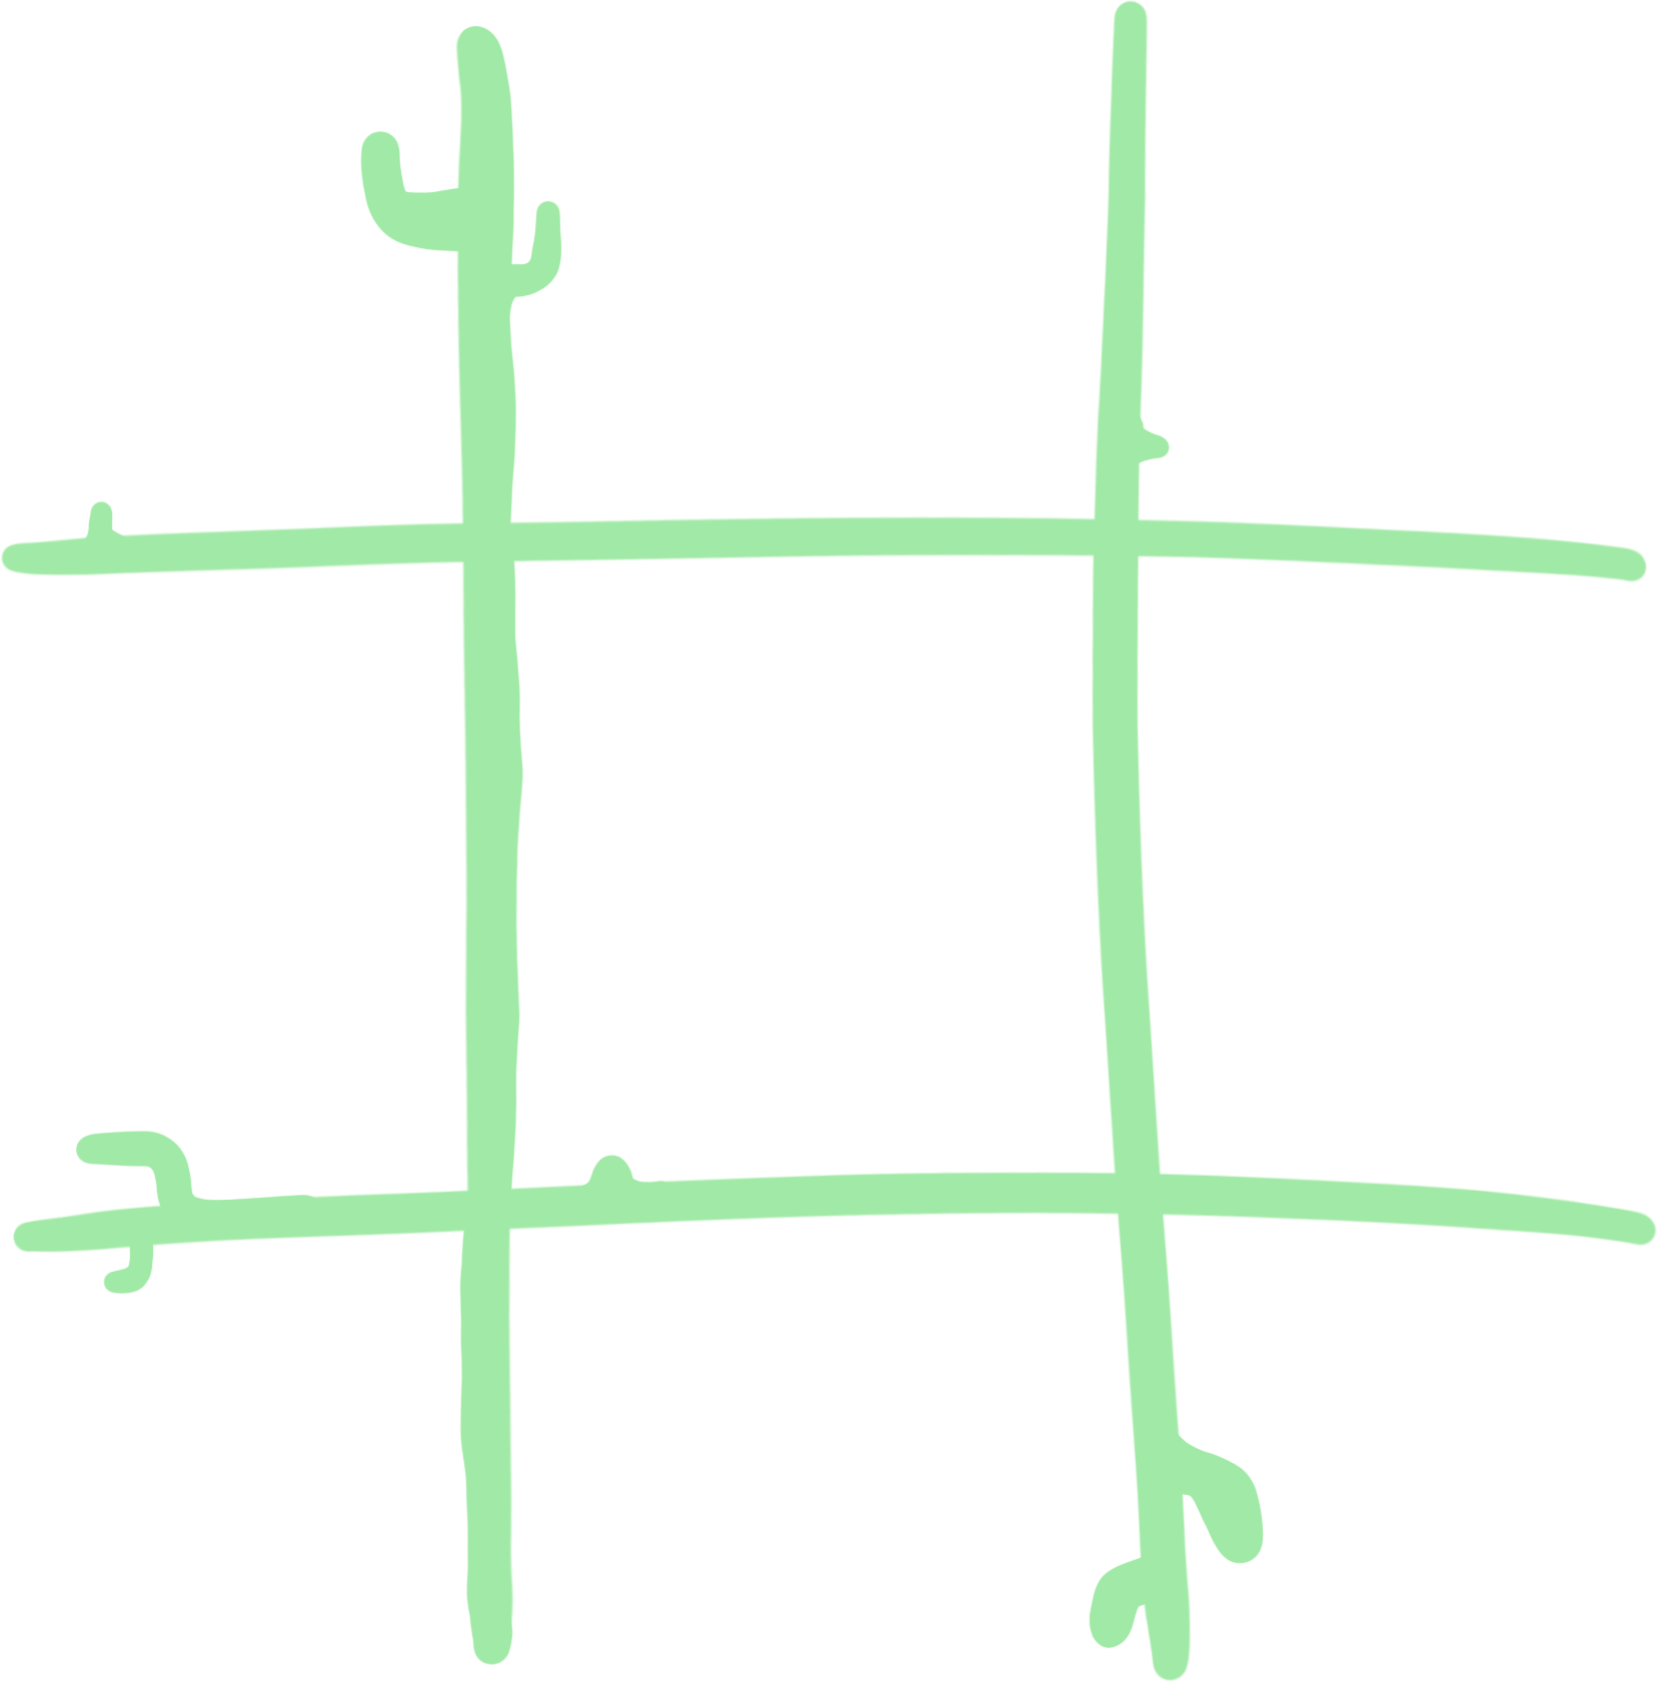
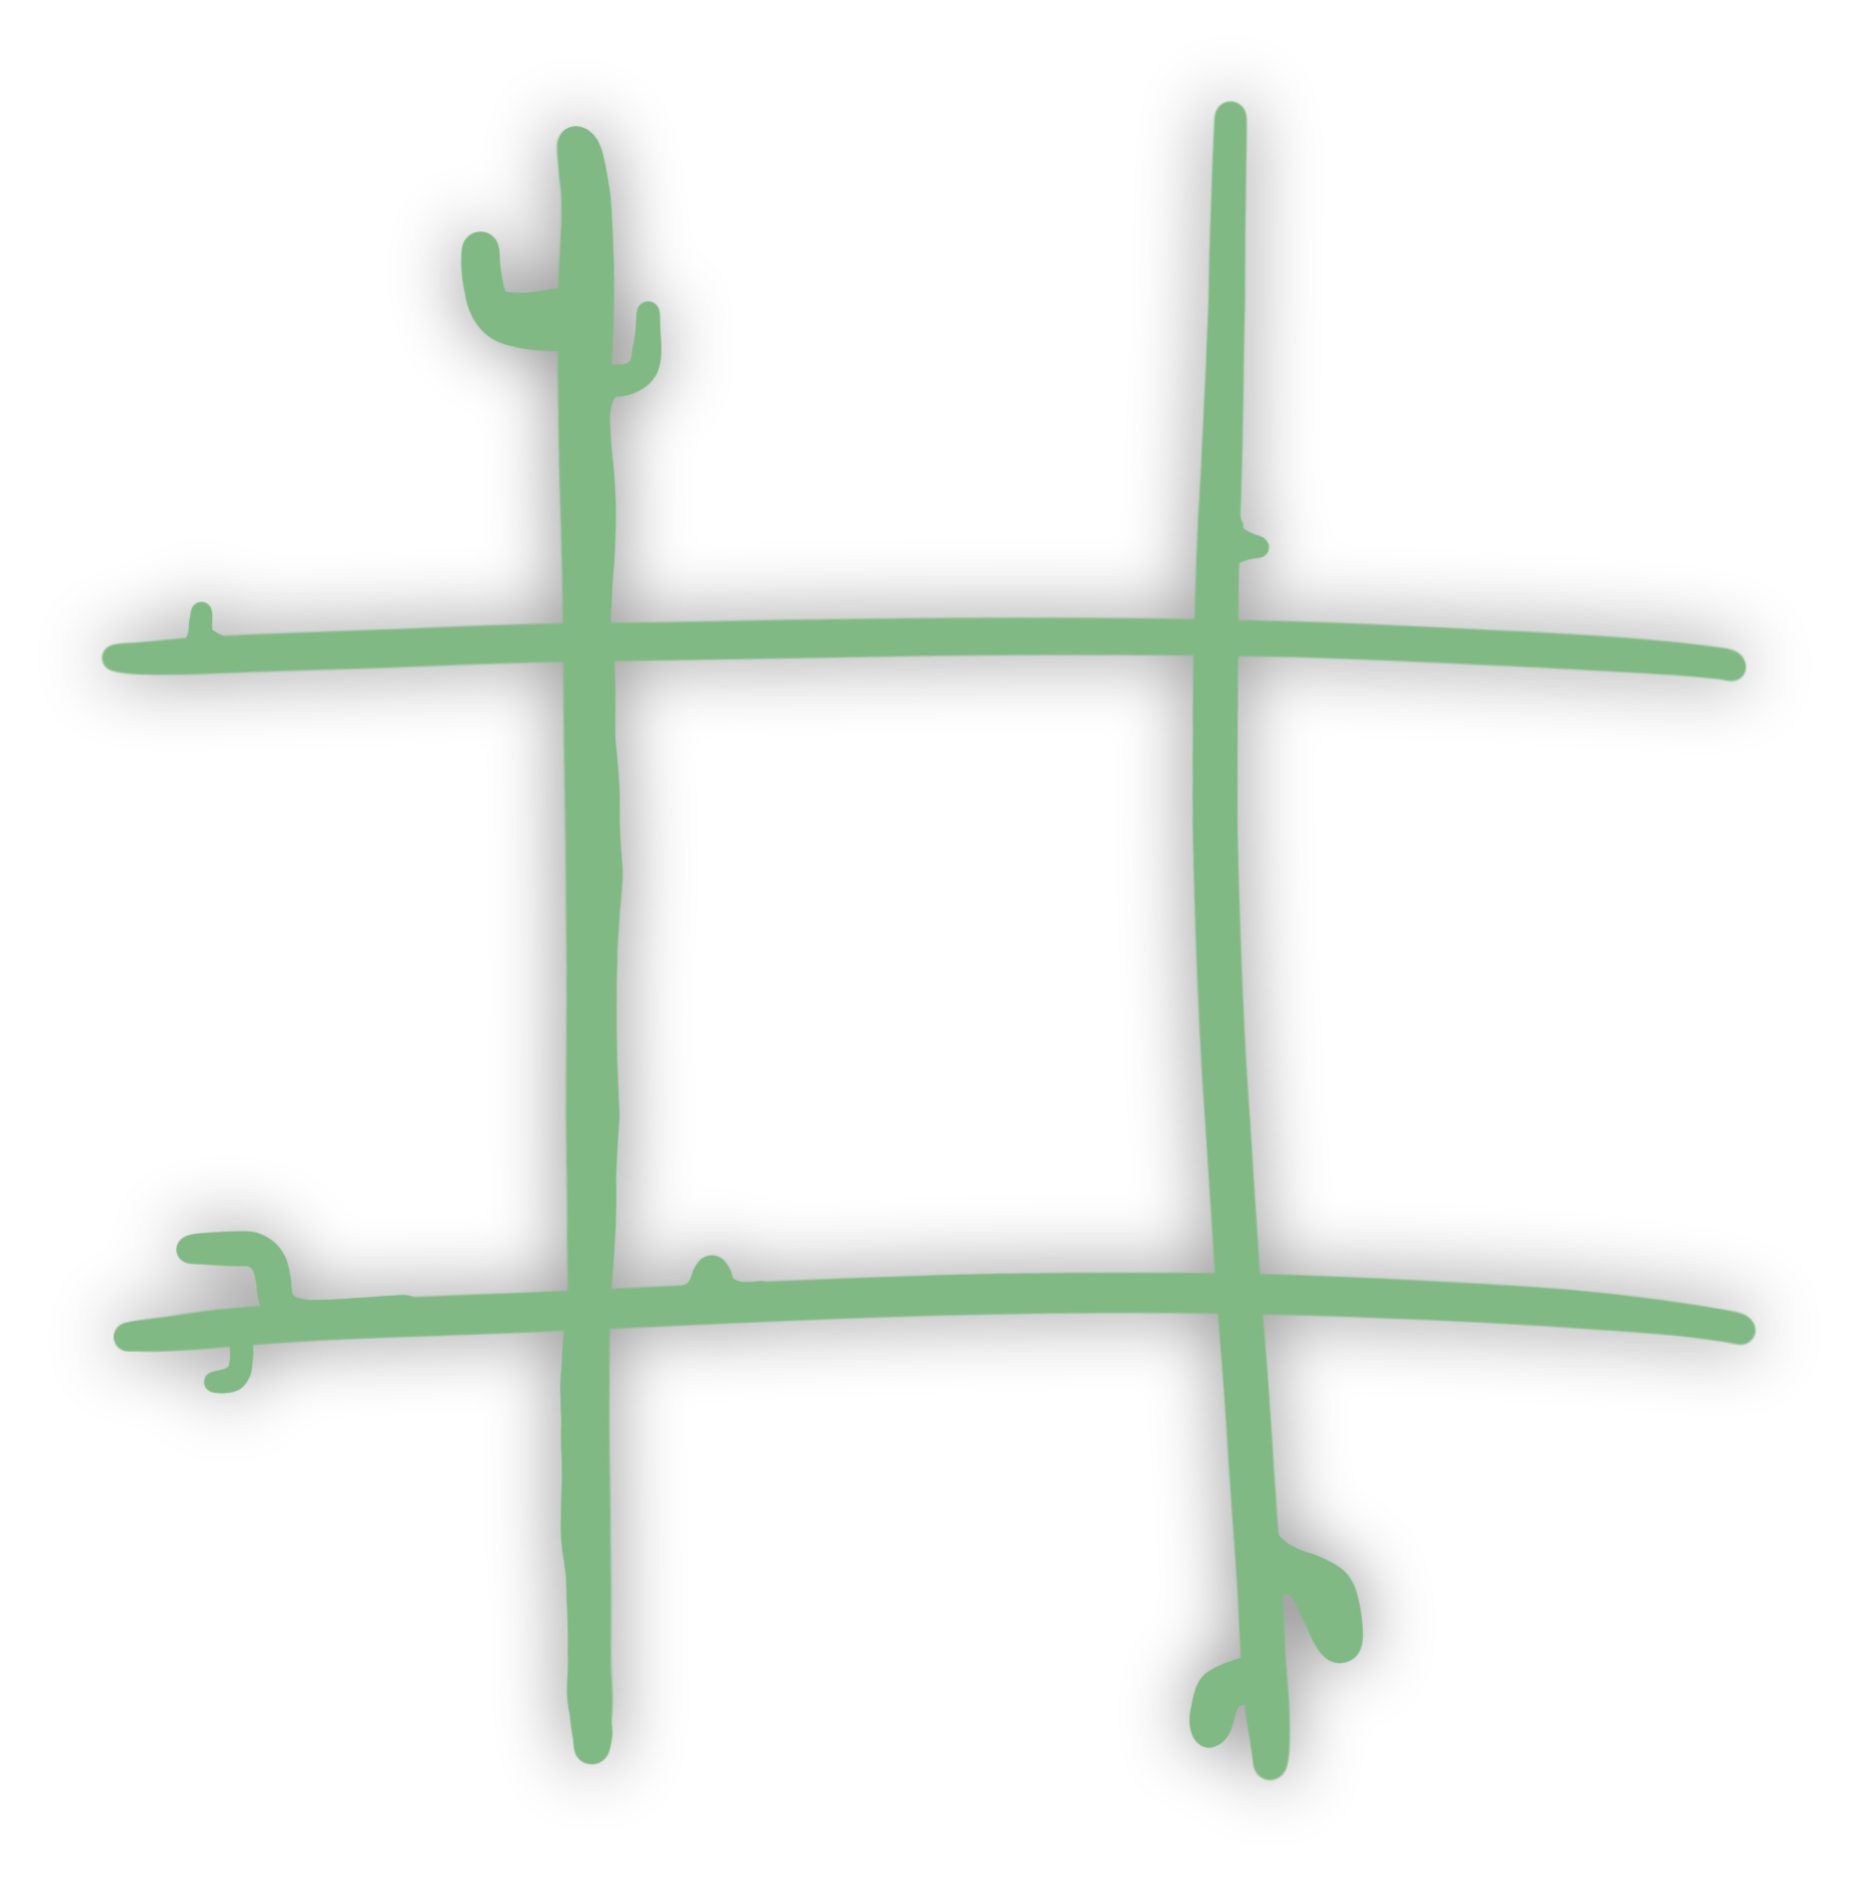
DONE WITH ART

Changed region(s): [[0.0, 0.0, 1.0, 1.0]]

diff --git a/pygame_main.py b/pygame_main.py
@@ -16,7 +16,8 @@ images = [
 ]
 dict_player_image = dict(zip(players, images))
 
-img_board = load_image_scaled('assets/art/board.png', (WIDTH * 0.85, HEIGHT * 0.85))
+img_board = load_image_scaled('assets/art/board.png', (WIDTH * 0.925, HEIGHT * 0.925))
+img_background = load_image_scaled('assets/art/background.png', (WIDTH, HEIGHT))
 
 def main():
     winner = None
@@ -54,6 +55,8 @@ def main():
 
 def draw(win: pygame.display, ttt: TicTacToe):
     def draw_tic_tac_toe():
+        # Draw the Background
+        WIN.blit(img_background, (0, 0))
         # Draw the Game Grid
         WIN.blit(img_board, ((WIDTH - img_board.get_width()) / 2, (HEIGHT - img_board.get_width()) / 2))
 

diff --git a/tictactoe.py b/tictactoe.py
@@ -39,7 +39,6 @@ class TicTacToe:
 
         self.grid[y, x] = self.get_current_player()
         result = self.evaluate()
-        print(result)
 
         self.current_move += 1
         return result
